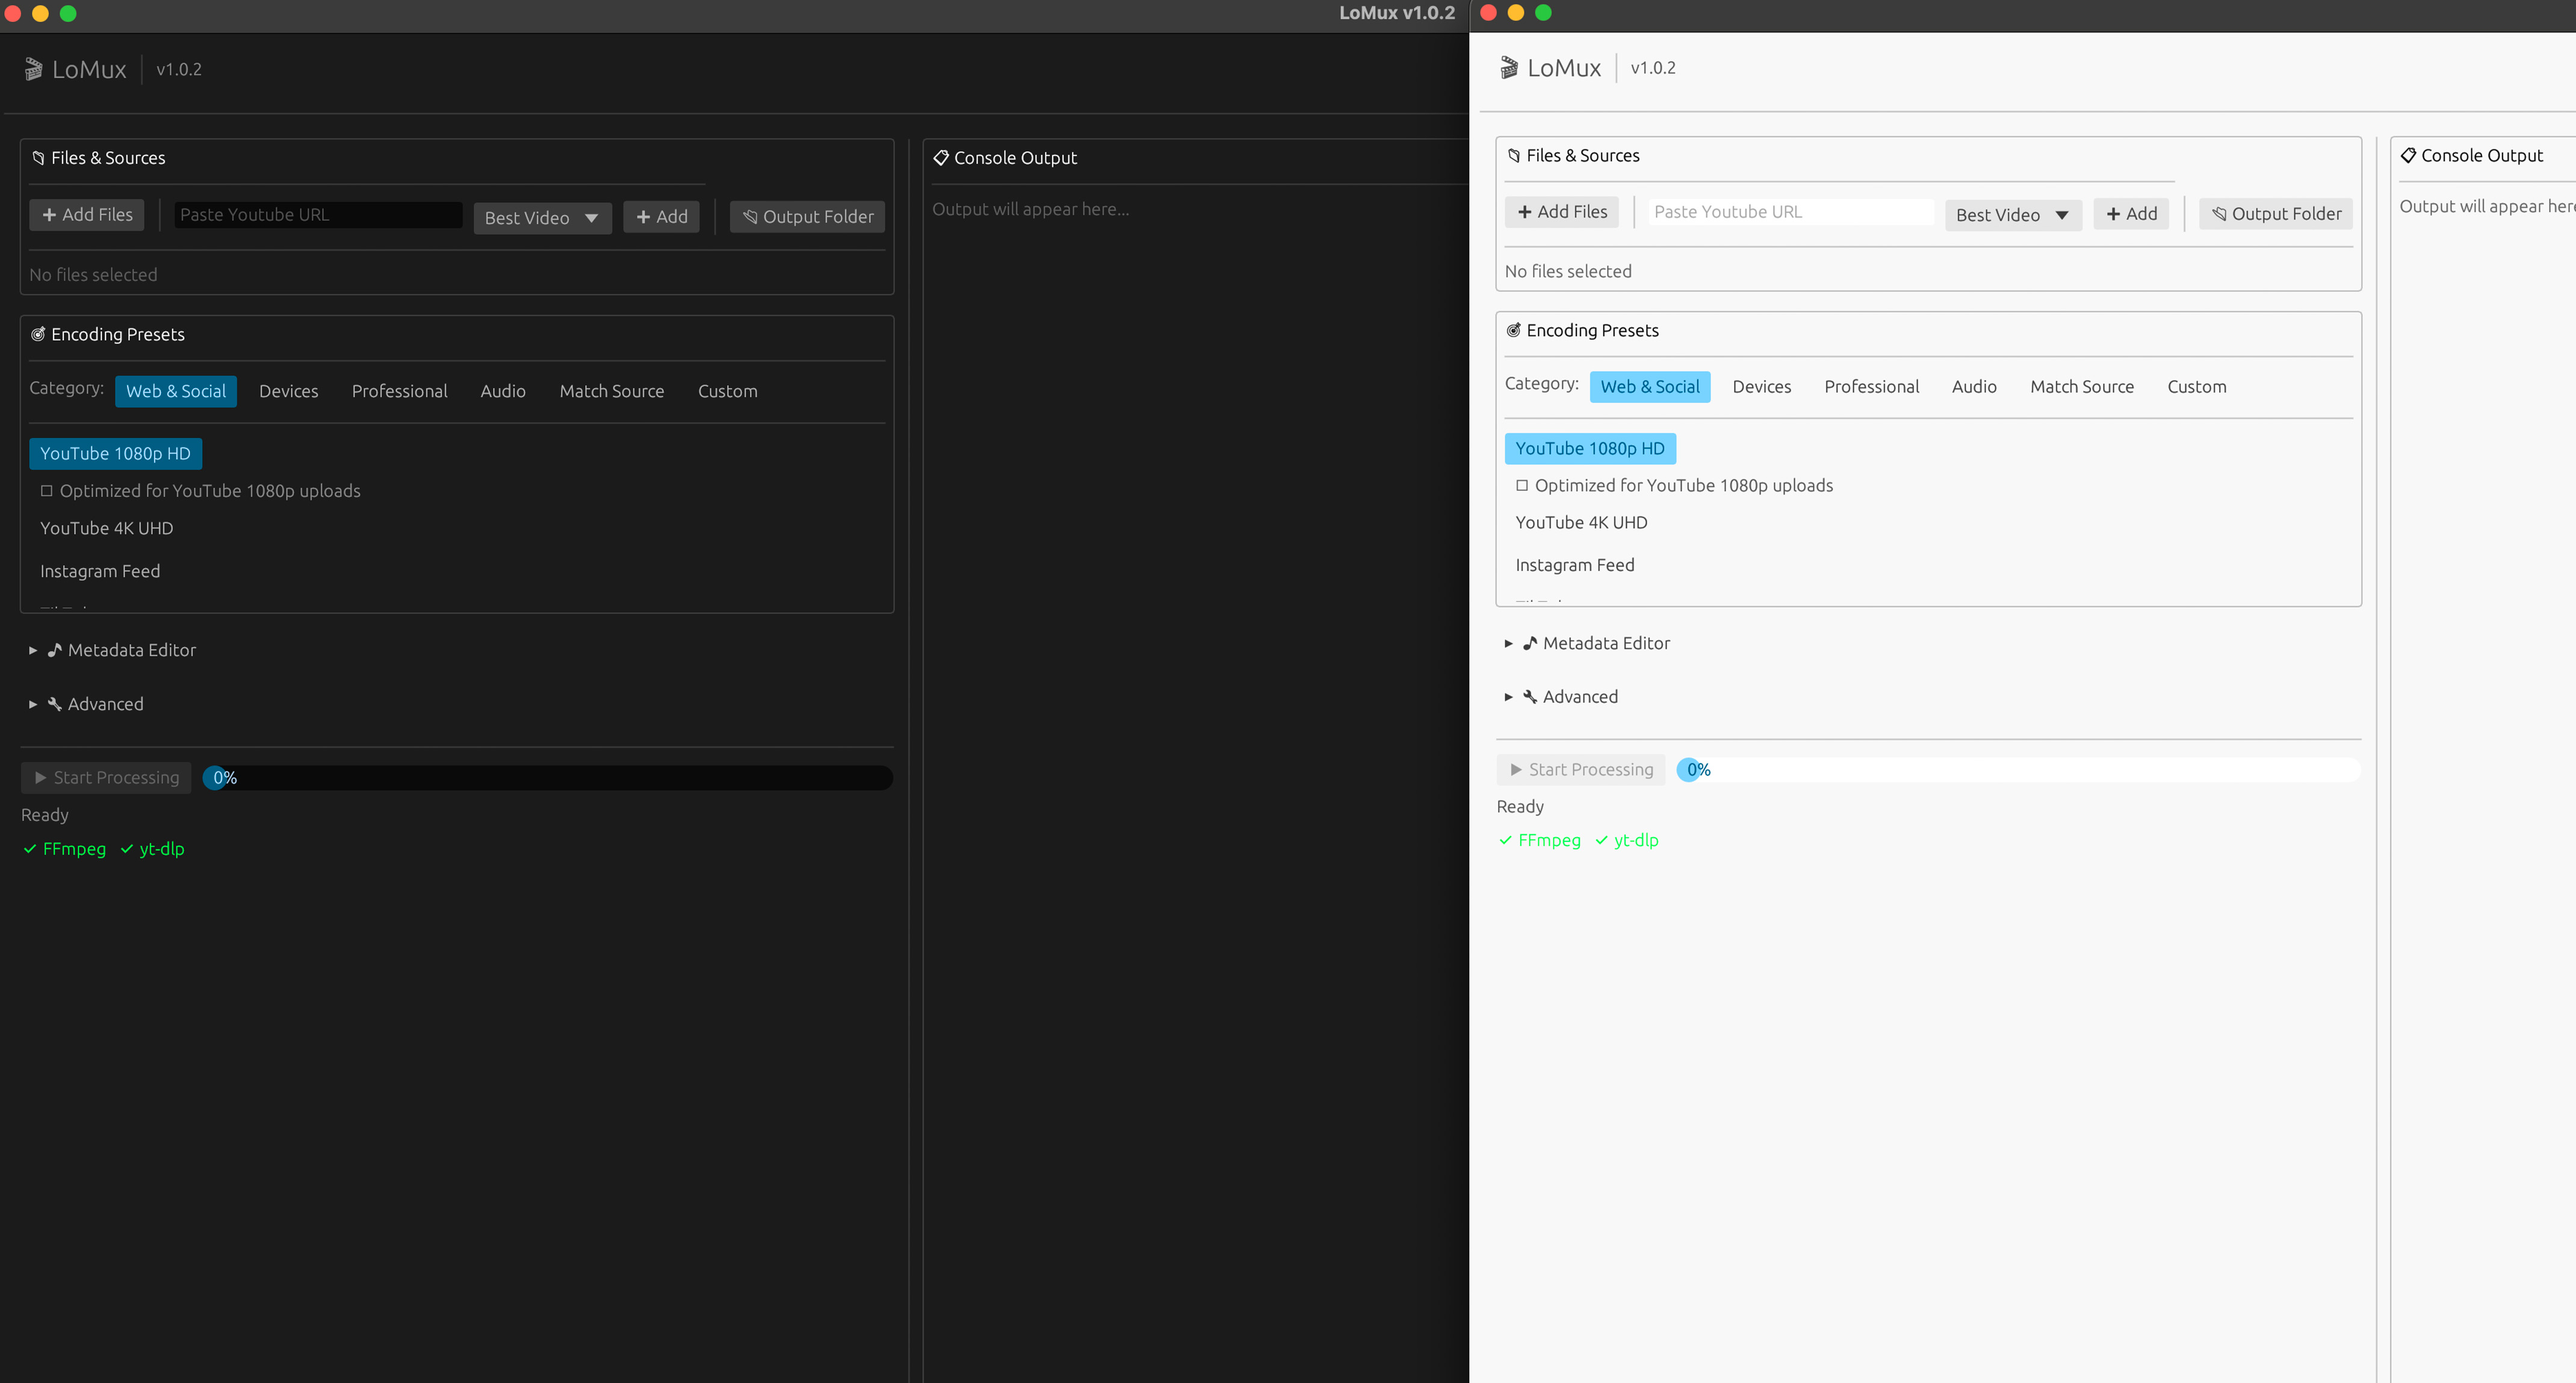
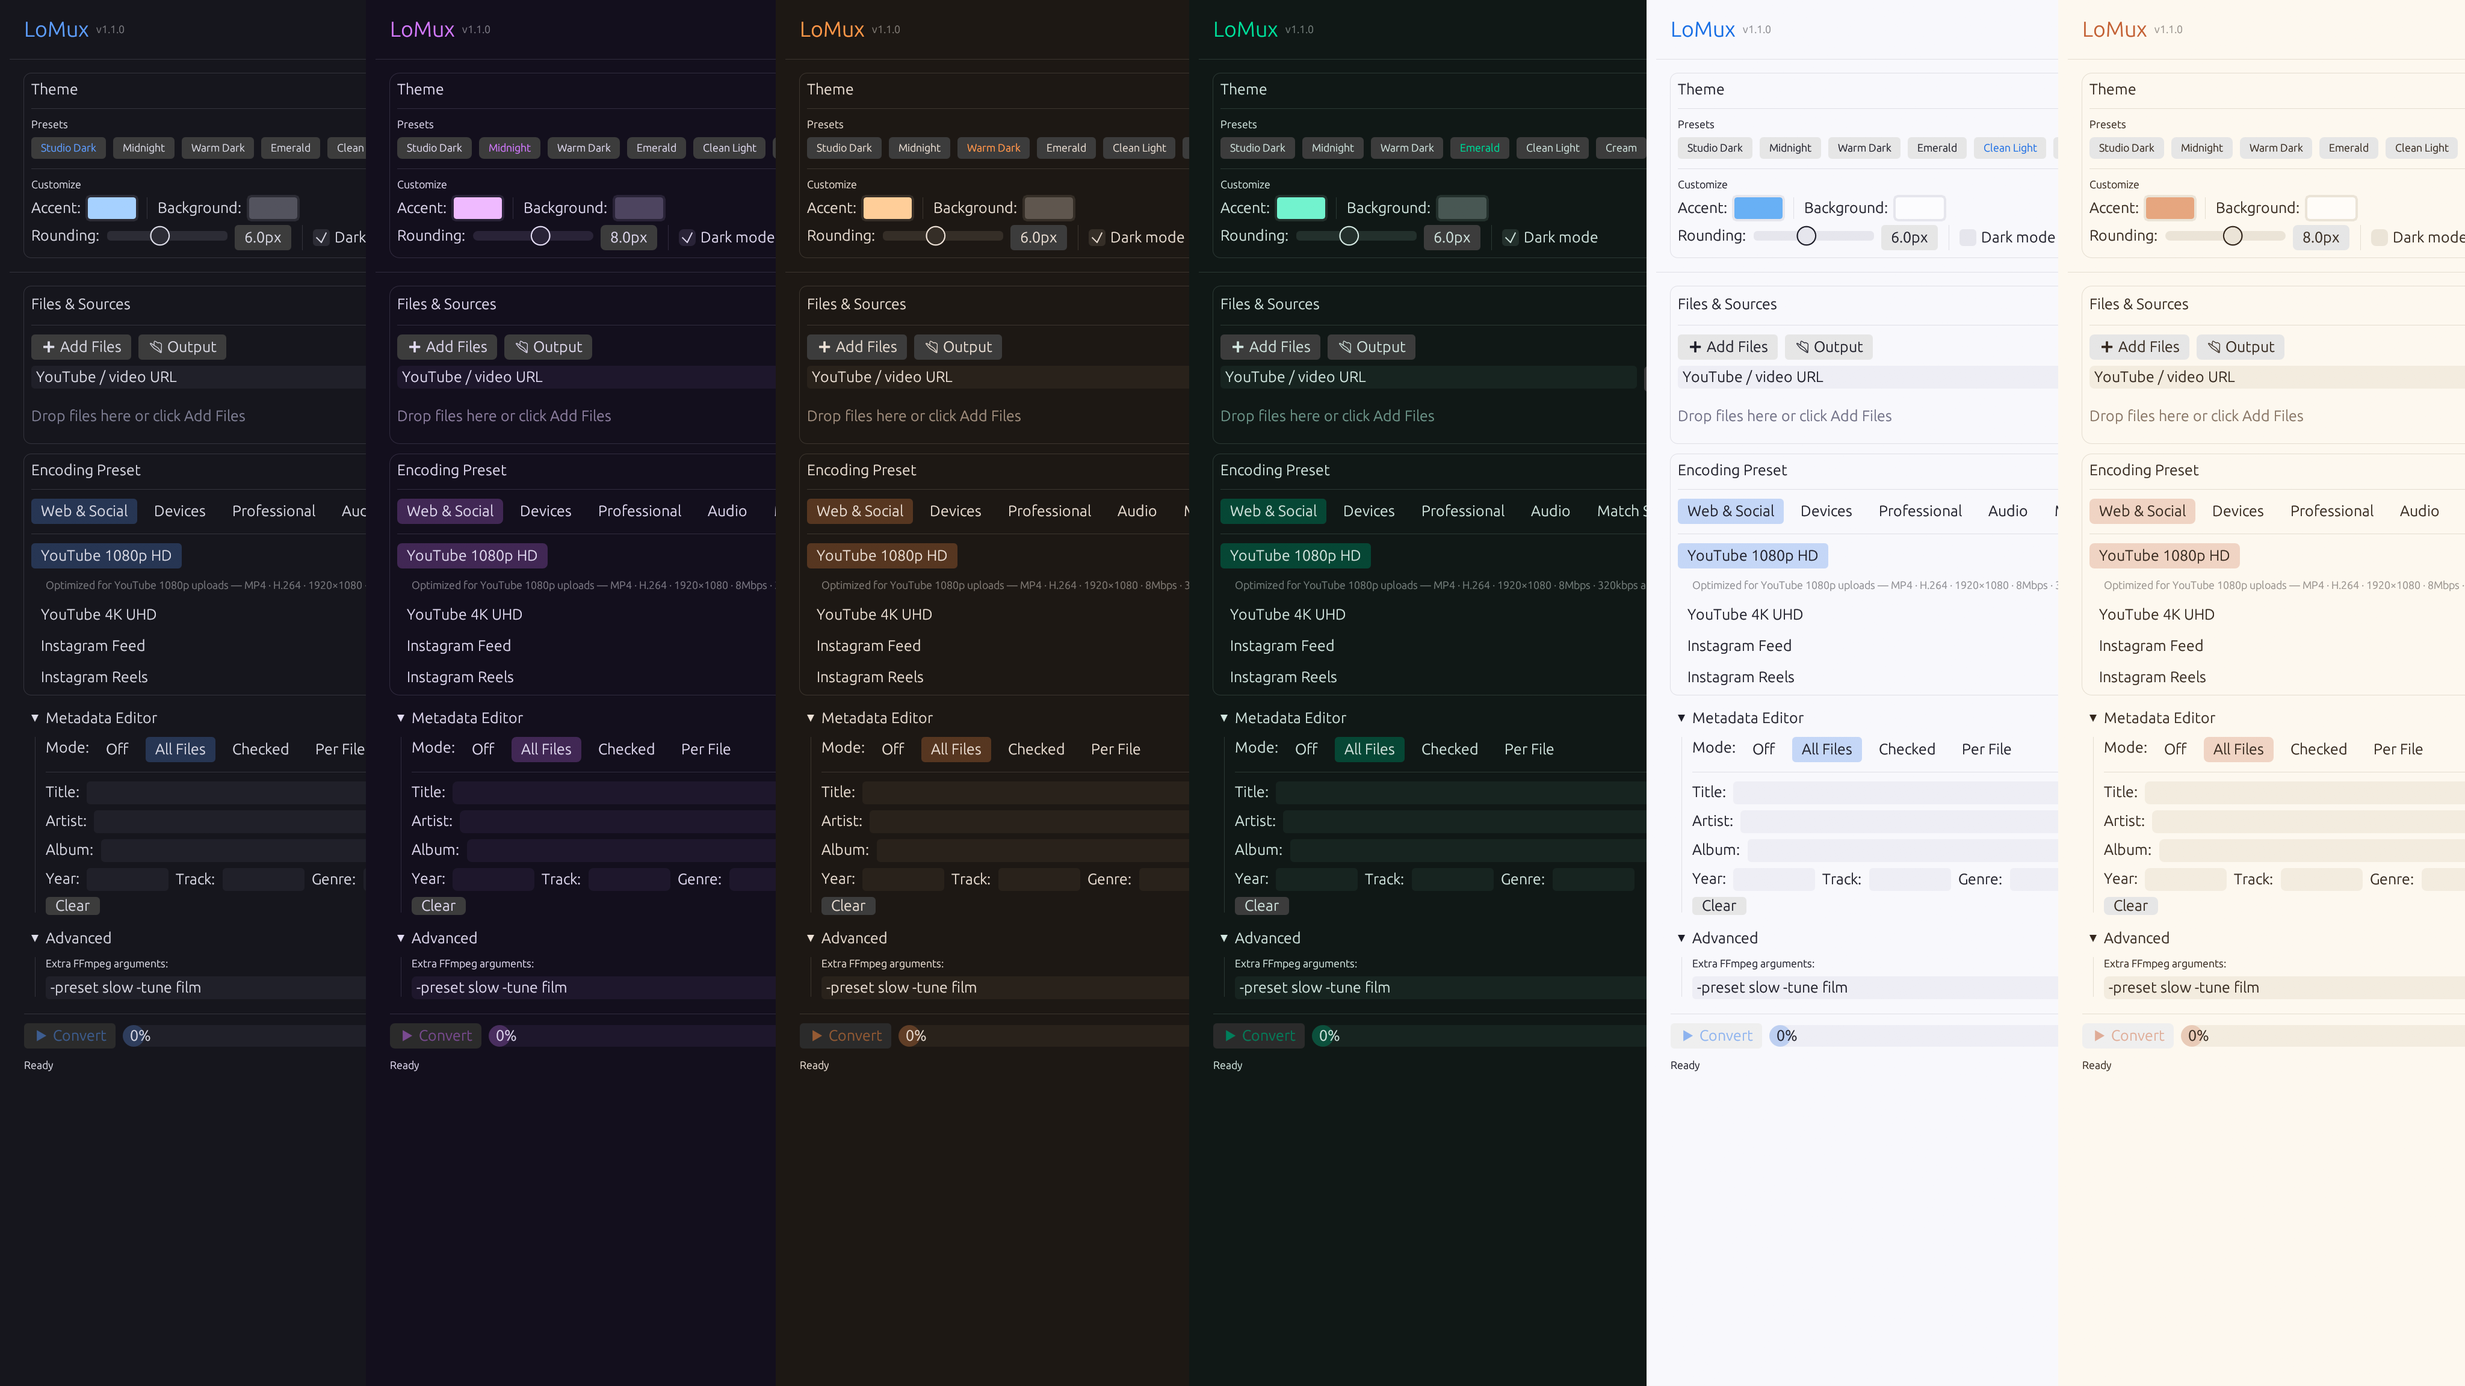
v1.1.0: README update

diff --git a/src/main.rs b/src/main.rs
@@ -169,6 +169,7 @@ impl PresetCategory {
 }
 
 #[derive(Debug, Clone)]
+#[allow(dead_code)]
 struct EncodingPreset {
 	name: String,
 	category: PresetCategory,
@@ -1103,6 +1104,7 @@ fn alpha_blend(color: egui::Color32, alpha: u8) -> egui::Color32 {
 }
 
 #[derive(Debug, Clone, PartialEq)]
+#[allow(dead_code)]
 enum MetadataMode {
 	None,
 	Global,

diff --git a/README.md b/README.md
@@ -160,7 +160,3 @@ No certain reason, I was bored. You're getting free conversion software. Could'v
 ## Contributing
 
 If you share the belief that simplicity empowers creativity, feel free to contribute. Fork, PR, bug report, feature request — all welcome. Ensure your code follows the existing style (tabs, minimal comments, blank lines stay blank). Complaints go to `/dev/null`.
-
-## License
-
-[MIT](LICENSE)
